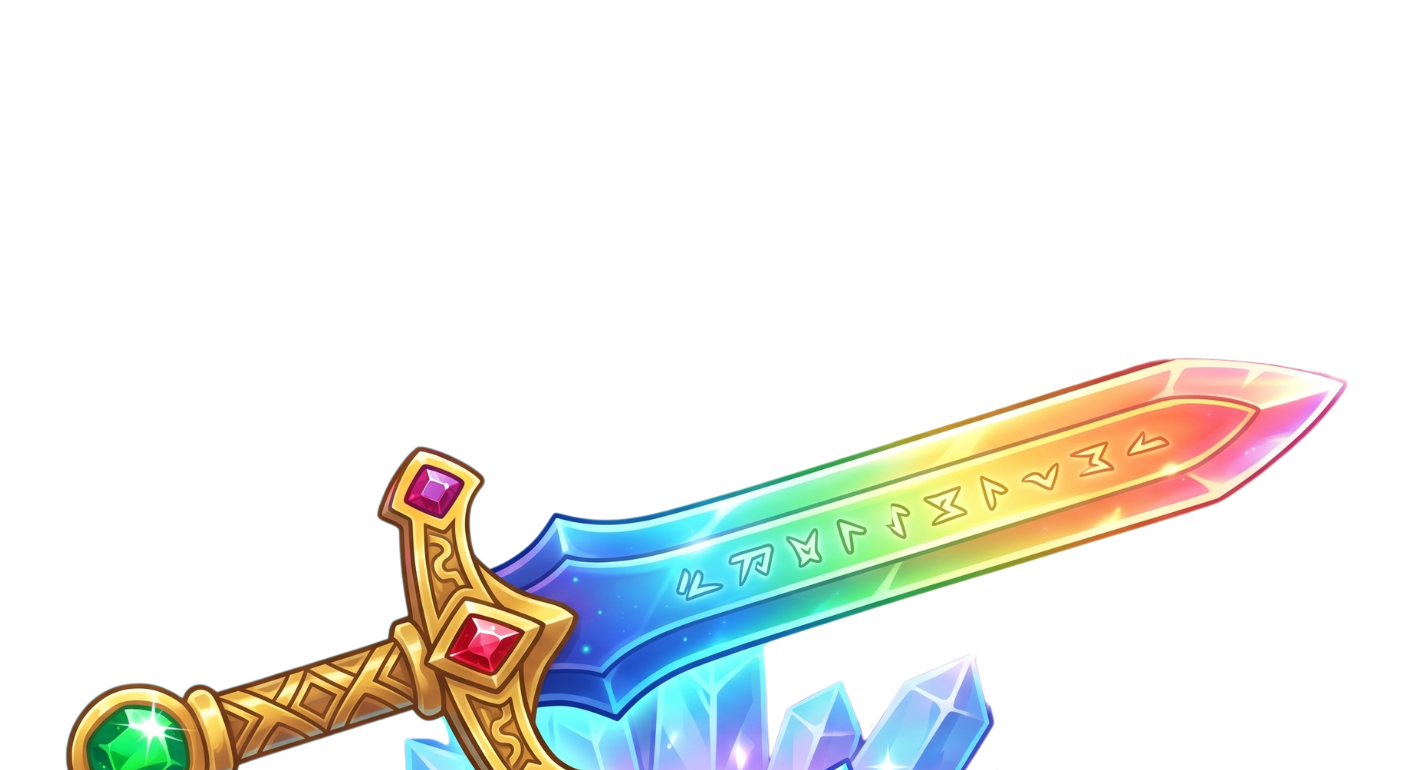
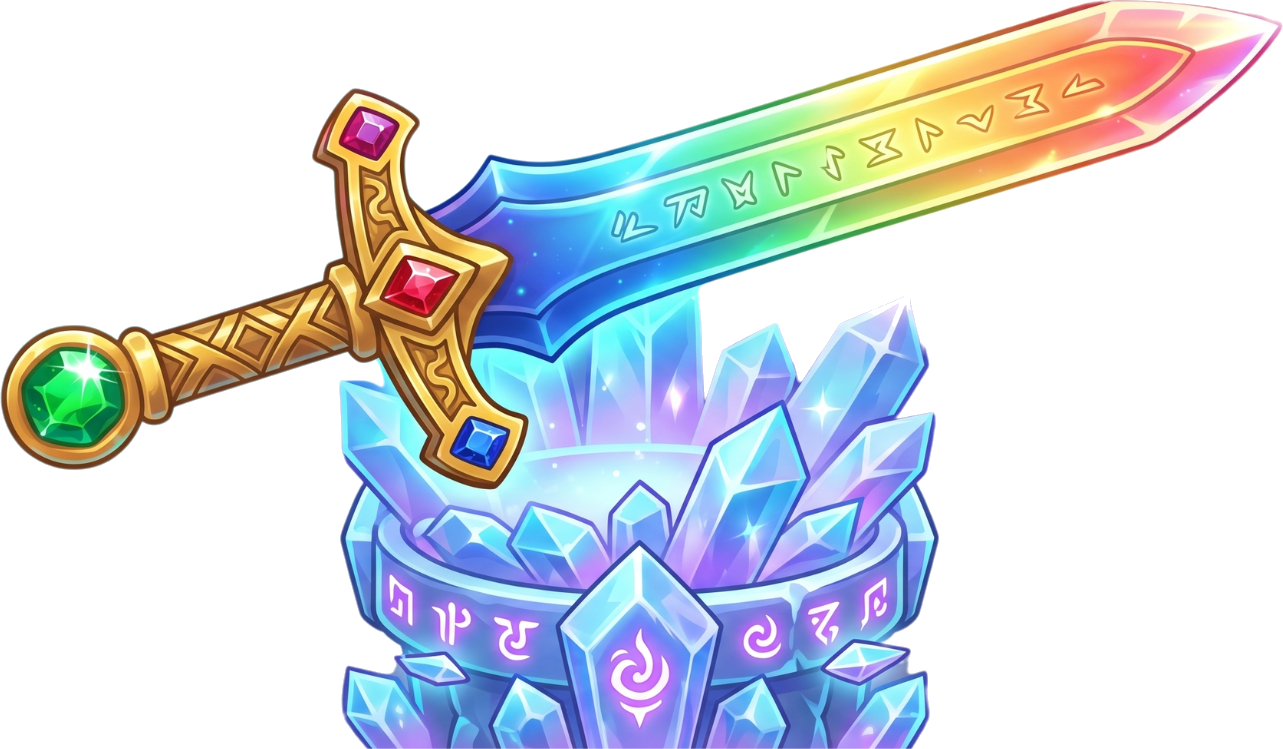
背景を木の棚つきコックピットに変更＋景品を台座つきで棚に陳列
- scene.png を左に木の棚があるコックピットに差し替え、速度計位置を再調整
- 提供zip(透過ユニコーンたち)の台座つき画像から白背景を端から透過処理
  （白いユニコーン本体や水晶は内側なので保持）
- 船・ユニコーン・剣を台座つきのまま左の木の棚に並べて常時表示
- ショップ/獲得演出の画像も台座つき版に統一

diff --git a/index.html b/index.html
@@ -261,8 +261,8 @@ html, body {
 /* --- 速度計（コンボで針が右へ） 中心≈(57.4%,74.6%) --- */
 .speedo {
   position: absolute;
-  left: 60.5%;
-  top: 73.4%;
+  left: 61.3%;
+  top: 72.8%;
   width: 0;
   height: 0;
   z-index: 3;
@@ -1209,43 +1209,20 @@ html, body {
   filter: drop-shadow(0 0 0.3cqw #fff) drop-shadow(0 0.3cqw 0.4cqw rgba(0,0,0,.35));
 }
 /* スペース・ジュエル号の模型（ダッシュボード上に浮遊） */
-.ship-mini {
-  position: absolute; left: 13.5%; top: 52%;
-  width: 17cqw; height: auto;
+/* 景品フィギュア：左の木の棚の上に飾る（棚の高さ＝下から約43%） */
+.ship-mini, .uni-mini, .sword-mini {
+  position: absolute;
   z-index: 6; display: none; pointer-events: none;
-  transform: translate(-50%,-50%);
-  filter: drop-shadow(0 0.6cqw 0.8cqw rgba(0,0,0,.45)) drop-shadow(0 0 1cqw rgba(120,200,255,.6));
-  animation: shipBob 2.4s ease-in-out infinite;
+  height: auto;
+  transform: translateX(-50%);
+  filter: drop-shadow(0 0.4cqw 0.5cqw rgba(0,0,0,.5));
 }
-@keyframes shipBob {
-  0%,100% { transform: translate(-50%,-50%) translateY(0) rotate(-2deg); }
-  50%     { transform: translate(-50%,-50%) translateY(-1.4cqw) rotate(2deg); }
-}
-/* でんせつのユニコーン（模型） */
-.uni-mini {
-  position: absolute; left: 88%; top: 58%;
-  width: 15cqw; height: auto;
-  z-index: 6; display: none; pointer-events: none;
-  transform: translate(-50%,-50%);
-  filter: drop-shadow(0 0.6cqw 0.8cqw rgba(0,0,0,.45)) drop-shadow(0 0 1cqw rgba(255,160,255,.7));
-  animation: uniBob 2.8s ease-in-out infinite;
-}
-@keyframes uniBob {
-  0%,100% { transform: translate(-50%,-50%) translateY(0) rotate(2deg); }
-  50%     { transform: translate(-50%,-50%) translateY(-1.2cqw) rotate(-2deg); }
-}
-/* でんせつの剣（コックピット上部に飾る） */
-.sword-mini {
-  position: absolute; left: 50%; top: 12%;
-  width: 30cqw; height: auto;
-  z-index: 6; display: none; pointer-events: none;
-  transform: translate(-50%,-50%) rotate(-7deg);
-  filter: drop-shadow(0 0.5cqw 0.7cqw rgba(0,0,0,.5)) drop-shadow(0 0 1cqw rgba(180,220,255,.7));
-  animation: swordBob 3.2s ease-in-out infinite;
-}
-@keyframes swordBob {
-  0%,100% { transform: translate(-50%,-50%) rotate(-7deg); }
-  50%     { transform: translate(-50%,-50%) translateY(-0.8cqw) rotate(-5deg); }
+.ship-mini  { left: 8.5%;  bottom: 43.5%; width: 8.5cqw; animation: miniBob 2.6s ease-in-out infinite; }
+.uni-mini   { left: 16%;   bottom: 43%;   width: 7.5cqw; animation: miniBob 2.9s ease-in-out -0.9s infinite; }
+.sword-mini { left: 24%;   bottom: 44%;   width: 10cqw; animation: miniBob 3.2s ease-in-out -1.5s infinite; }
+@keyframes miniBob {
+  0%,100% { transform: translateX(-50%) translateY(0); }
+  50%     { transform: translateX(-50%) translateY(-0.6cqw); }
 }
 
 /* ショップ：画像アイテム＆特別景品の大カード */
